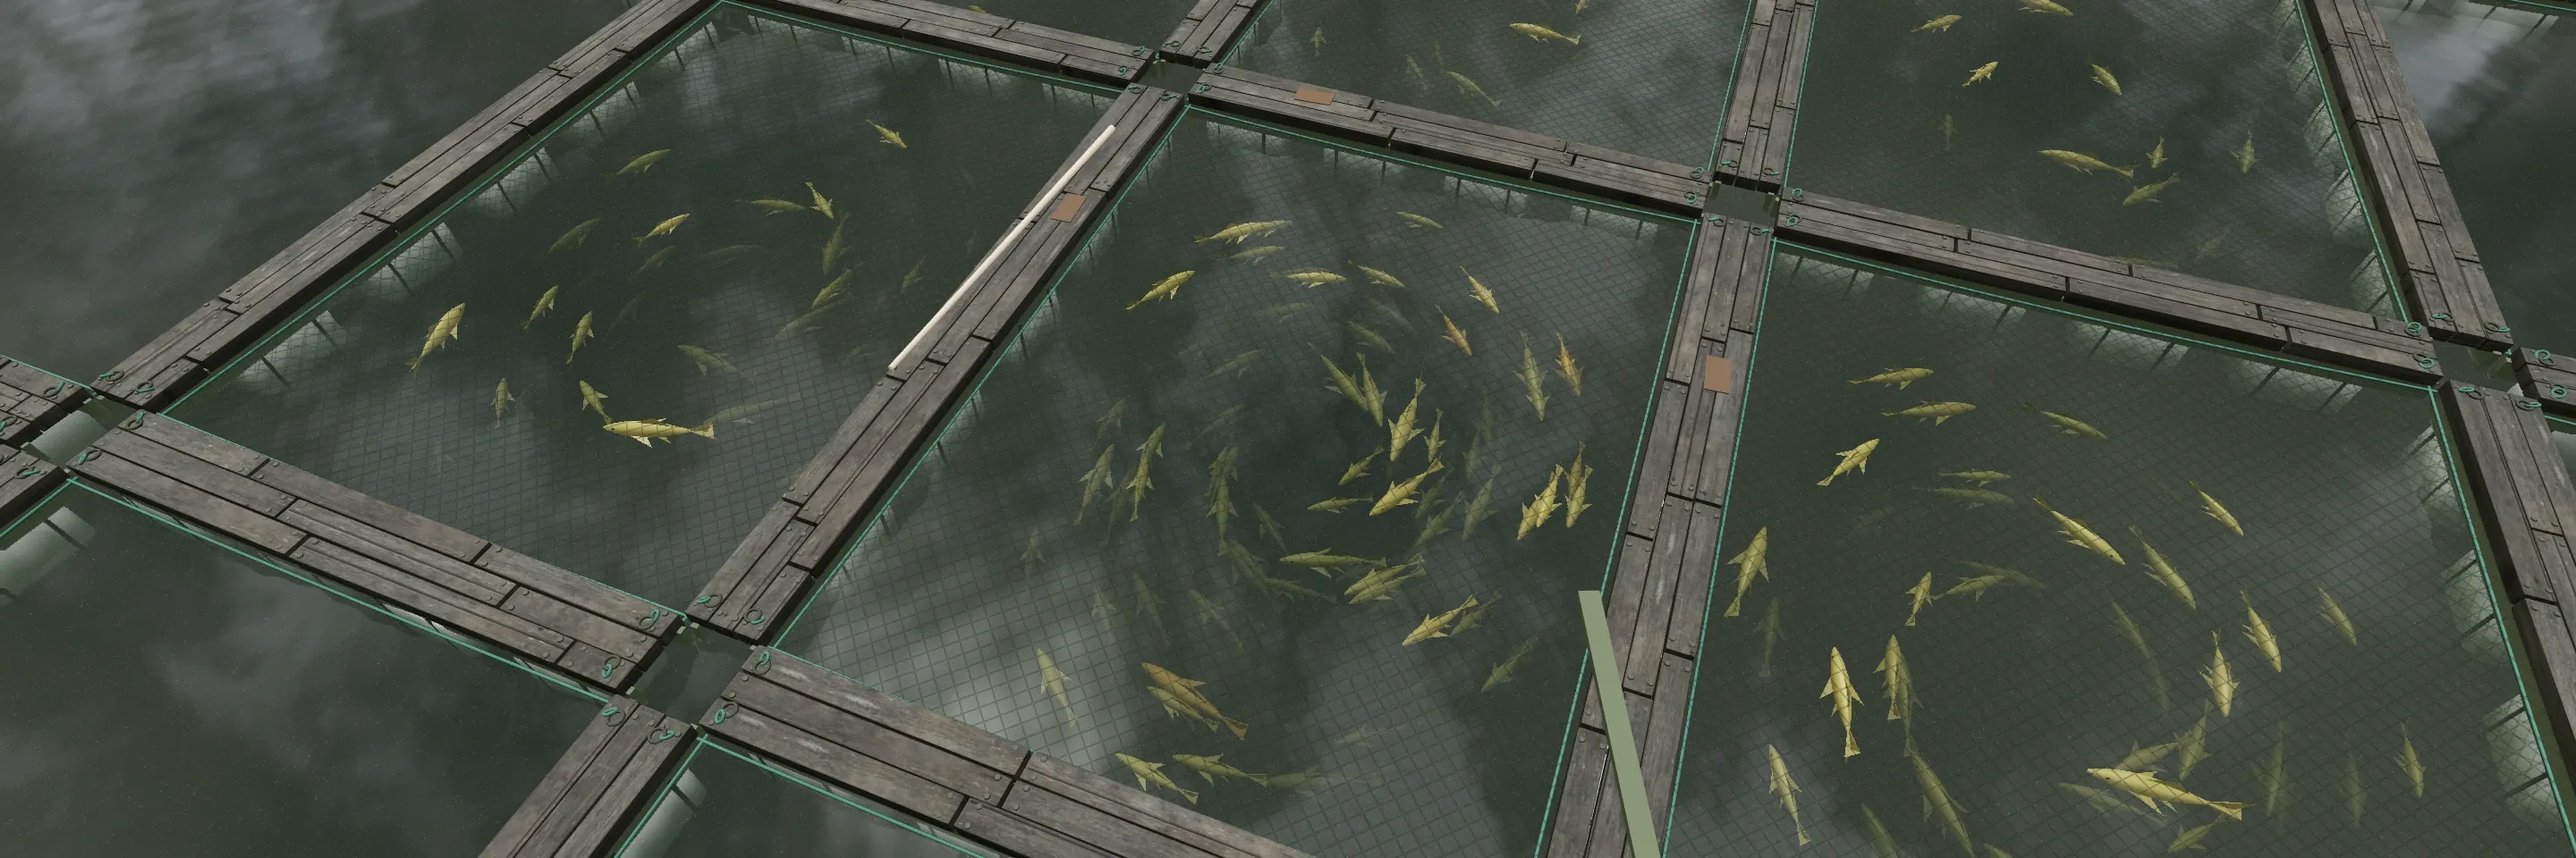
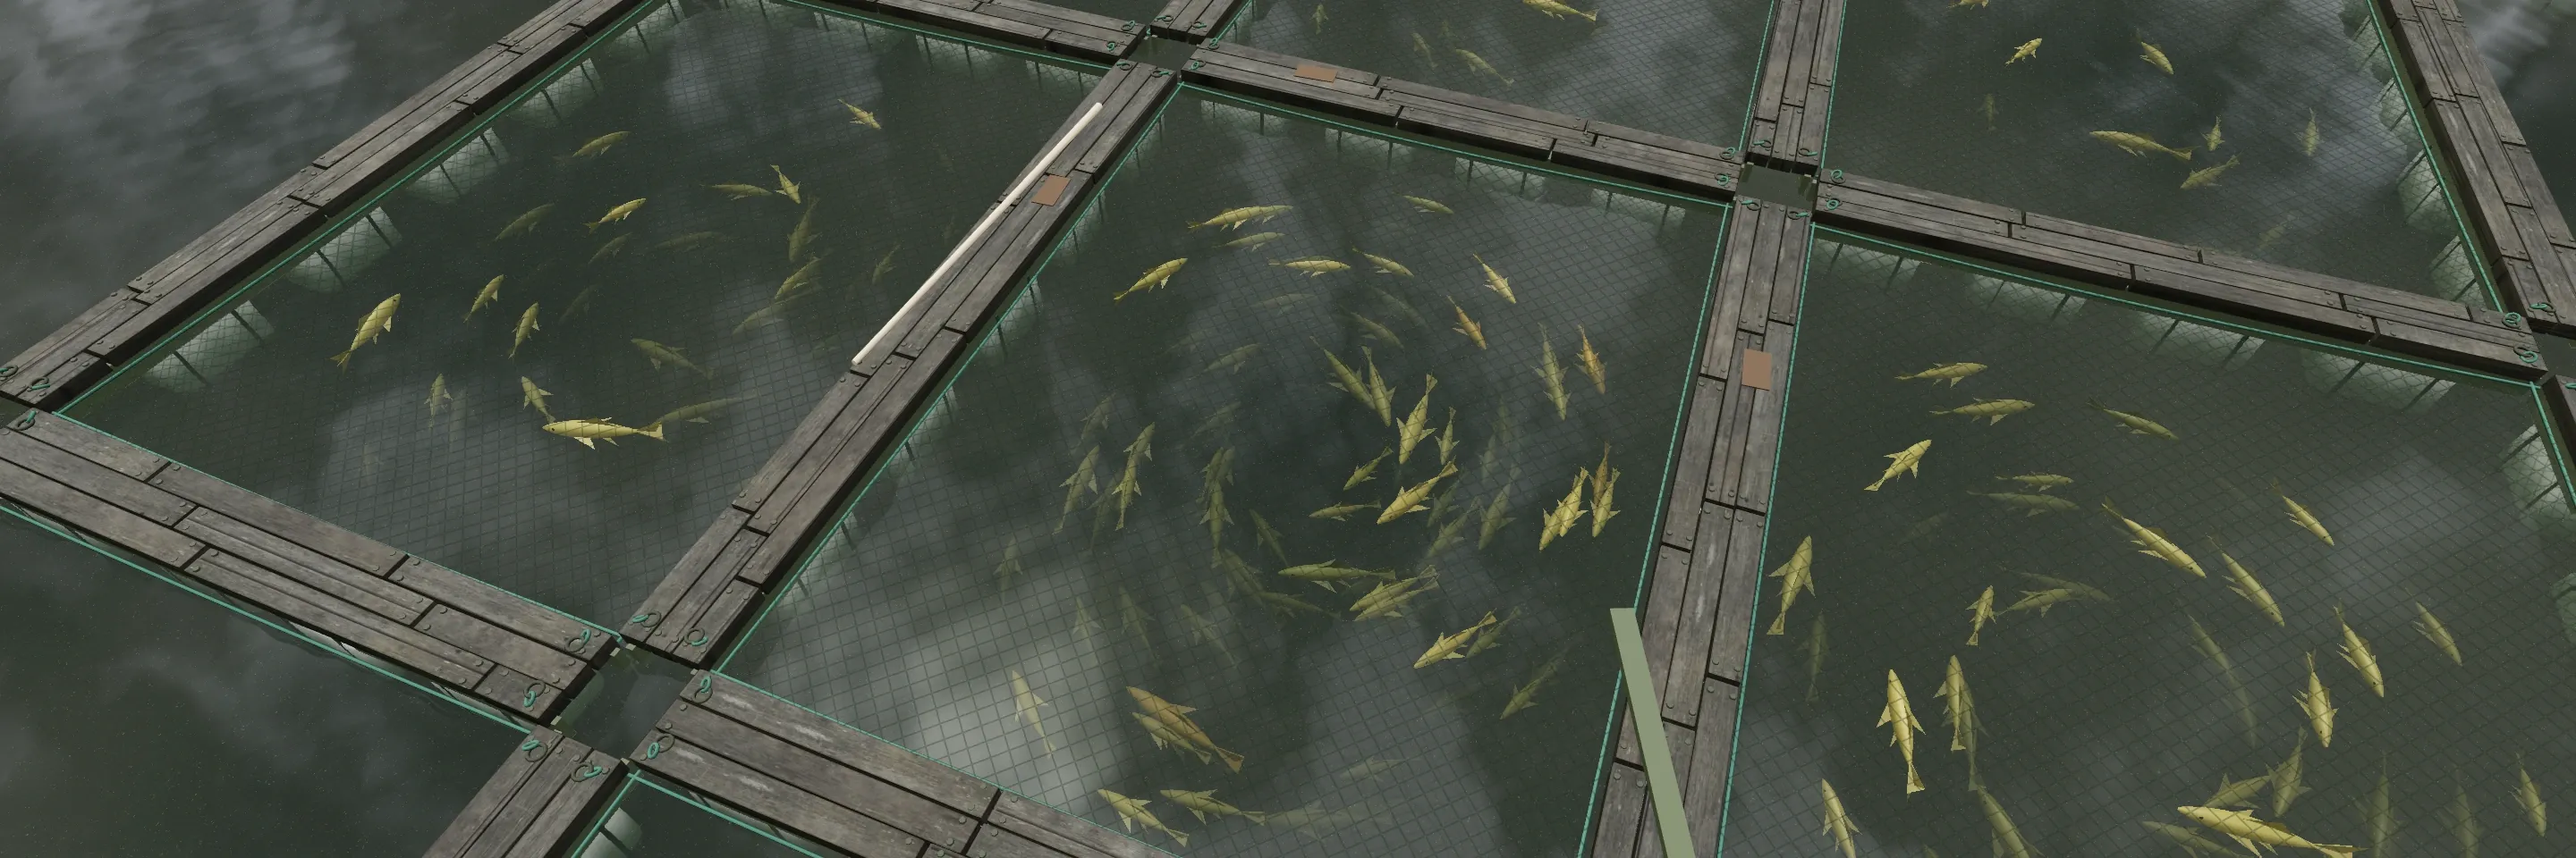
Sharpen the Salmon Farm preview and restore right-drag orbit

diff --git a/src/tanks/App.tsx b/src/tanks/App.tsx
@@ -92,6 +92,6 @@ export default function Tanks() {
     {DevControls && revealed && !error && <Suspense fallback={null}>
       <DevControls sceneRef={sceneRef} paused={paused} setPaused={setPaused} murk={murk} setMurk={setMurk} feed={feed} fallbackEnvironment={fallbackEnvironment} />
     </Suspense>}
-    <p className="sr-only">Drag with the left mouse button, swipe with two fingers on a trackpad, or use a touch gesture to orbit. Pinch, scroll the mouse wheel, or drag up or down with the right mouse button to zoom. Tap the water to create a ripple. Space pauses or resumes, F scatters food, and R resets the view. Reduced motion starts the scene paused.</p>
+    <p className="sr-only">Drag with either mouse button, swipe with two fingers on a trackpad, or use a touch gesture to orbit. Pinch, scroll the mouse wheel, or middle-drag to zoom. Tap the water to create a ripple. Space pauses or resumes, F scatters food, and R resets the view. Reduced motion starts the scene paused.</p>
   </div>
 }

diff --git a/src/tanks/scene.ts b/src/tanks/scene.ts
@@ -98,9 +98,9 @@ export class TanksScene {
     this.water = createWater(this.refraction.texture, this.refraction.depthTexture, this.reflection.texture, this.environment)
     this.scene.add(this.water.mesh, this.underwater)
     this.underwater.add(this.fish.mesh)
-    this.camera.position.set(2.06, 6.82, 5.71)
+    this.camera.position.set(1.88, 6.25, 5.25)
     this.controls = new OrbitControls(this.camera, this.renderer.domElement)
-    this.controls.mouseButtons.RIGHT = MOUSE.DOLLY
+    this.controls.mouseButtons.RIGHT = MOUSE.ROTATE
     this.controls.target.set(-0.15, -0.25, 0)
     this.controls.enableDamping = true
     this.controls.dampingFactor = 0.065

diff --git a/src/tanks/DevControls.tsx b/src/tanks/DevControls.tsx
@@ -21,7 +21,7 @@ export default function DevControls({ sceneRef, paused, setPaused, murk, setMurk
     if (!scene) return
     try {
       setStatus('Saving…')
-      const data = kind === 'opening' ? scene.captureFrame(2880, 960) : scene.captureFrame(1200, 675)
+      const data = kind === 'opening' ? scene.captureFrame(2880, 960) : scene.captureFrame(2560, 1440)
       const image = await (await fetch(data)).blob()
       const result = await fetch(`/__capture/${kind}`, { method: 'POST', headers: { 'Content-Type': 'image/webp' }, body: image })
       if (!result.ok) throw new Error(await result.text())

diff --git a/docs/development.md b/docs/development.md
@@ -2,7 +2,7 @@
 
 Use Node.js 22 or later. Run `npm ci`, then `npm run dev`. `npm run check` typechecks and runs the fish mechanics, schooling, geometry, optics, worker and opening-framing checks. `npm run build` creates the static app in `dist/` and checks its packaged assets. `npm run preview` serves that production build locally.
 
-The production app fills the page with the scene. Left-drag, touch, or swipe with two fingers on a trackpad to orbit. Pinch, scroll the mouse wheel, or right-drag up or down to zoom. Tap the water to disturb nearby fish. Space pauses, F feeds, and R restores the camera. Reduced-motion preferences start the scene paused. The only normal loading UI is the 2px bottom bar; a saved opening frame is present in the initial HTML and crossfades over 250ms after the first successful render. Simulation stays paused through this handoff.
+The production app fills the page with the scene. Left-drag, right-drag, touch, or swipe with two fingers on a trackpad to orbit. Pinch, scroll the mouse wheel, or middle-drag to zoom. Tap the water to disturb nearby fish. Space pauses, F feeds, and R restores the camera. Reduced-motion preferences start the scene paused. The only normal loading UI is the 2px bottom bar; a saved opening frame is present in the initial HTML and crossfades over 250ms after the first successful render. Simulation stays paused through this handoff.
 
 Trackpad scrolling changes camera angles while preserving distance. Pinch works with ctrl-wheel events and Safari native gesture events, choosing one source when a browser emits both. Mouse wheel zoom and touchscreen gestures continue through OrbitControls. Wheel-device detection uses scroll units, notch/delta patterns and a short gesture lock because browsers do not expose a reliable physical device type. A high-resolution smooth mouse wheel can resemble a trackpad. Scroll filtering is independent of the render rate; reset, hidden tabs and disposal clear pending movement.
 
@@ -14,7 +14,7 @@ The initial HTML preloads the HDR as a CORS fetch and all three wood maps as COR
 
 To regenerate these derivatives from the original assets, install `cwebp` and run `node scripts/optimize-assets.mjs 7b9b8d2`. The script reads the original files from Git, filters the environment in linear radiance with spherical area weights, checks the RGBE round-trip error, and encodes the images. It always uses original inputs to avoid cumulative recompression.
 
-To regenerate the opening, run the development server and open `/?opening`. This keeps the initial physical pose frozen. Expand Debug and use Save opening still. The scene renders its own 2880×960 frame directly to `public/tanks/opening.webp`; the export has no HTML overlays. Save thumbnail renders a separate 1200×675 frame to `media/thumbnail.webp`. A development-only local endpoint accepts fixed capture destinations. The opening camera and CSS cover scaling share the same crop through portrait, landscape and ultrawide layouts.
+To regenerate the opening, run the development server and open `/?opening`. This keeps the initial physical pose frozen. Expand Debug and use Save opening still. The scene renders its own 2880×960 frame directly to `public/tanks/opening.webp`; the export has no HTML overlays. Save thumbnail renders a separate 2560×1440 frame to `media/thumbnail.webp`. A development-only local endpoint accepts fixed capture destinations. The opening camera and CSS cover scaling share the same crop through portrait, landscape and ultrawide layouts.
 
 Recompress a newly captured opening still with `cwebp` at quality 82 before building so it meets the opening image budget.
 
